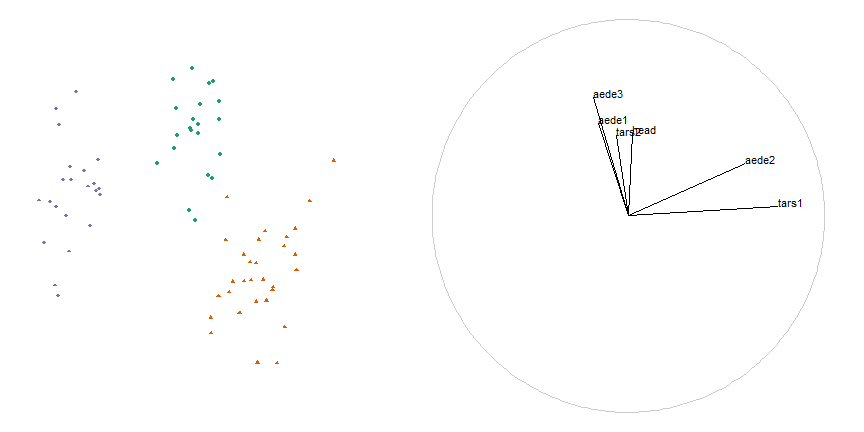
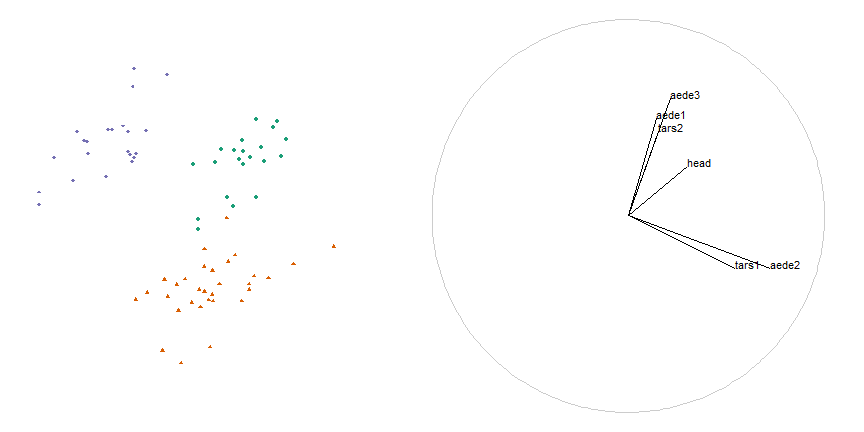
supervisors, typos

diff --git a/slides_ns.html b/slides_ns.html
@@ -3,7 +3,7 @@
   <head>
     <title>Dynamic visualization of high-dimensional data via low-dimension projections across 2D and 3D display devices</title>
     <meta charset="utf-8">
-    <meta name="author" content="  Nicholas Spyrison   Monash University, Faculty of Information Technology" />
+    <meta name="author" content="  Nicholas Spyrison   Monash University, Faculty of Information Technology    Supervisors: Prof. Kimbal Marriott,  Prof. Dianne Cook,  Prof. German Valencia" />
     <link href="slides_ns_files/remark-css-0.0.1/default.css" rel="stylesheet" />
     <script src="slides_ns_files/kePrint-0.0.1/kePrint.js"></script>
     <link rel="stylesheet" href="data_viz_theme.css" type="text/css" />
@@ -13,7 +13,7 @@
 class: center, middle, inverse, title-slide
 
 # Dynamic visualization of high-dimensional data via low-dimension projections across 2D and 3D display devices
-### <br> Nicholas Spyrison <br> Monash University, Faculty of Information Technology <br><br>
+### <br> Nicholas Spyrison <br> Monash University, Faculty of Information Technology <br><br> Supervisors: Prof. Kimbal Marriott,<br> Prof. Dianne Cook,<br> Prof. German Valencia
 ### Candidature Confirmation <br> 21 February 2019 <br><br> <em>Slides – <a href="https://github.com/nspyrison/talk_confirmation2019">github.com/nspyrison/talk_confirmation2019</a></em>
 
 ---
@@ -118,33 +118,33 @@ of the sensitivity of structure to the original variables or parameters? **
 &lt;tbody&gt;
   &lt;tr&gt;
    &lt;td style="text-align:left;"&gt; tars1 &lt;/td&gt;
-   &lt;td style="text-align:right;"&gt; 0.7658 &lt;/td&gt;
-   &lt;td style="text-align:right;"&gt; 0.0464 &lt;/td&gt;
+   &lt;td style="text-align:right;"&gt; 0.5469 &lt;/td&gt;
+   &lt;td style="text-align:right;"&gt; -0.2681 &lt;/td&gt;
   &lt;/tr&gt;
   &lt;tr&gt;
    &lt;td style="text-align:left;"&gt; tars2 &lt;/td&gt;
-   &lt;td style="text-align:right;"&gt; -0.0625 &lt;/td&gt;
-   &lt;td style="text-align:right;"&gt; 0.4088 &lt;/td&gt;
+   &lt;td style="text-align:right;"&gt; 0.1526 &lt;/td&gt;
+   &lt;td style="text-align:right;"&gt; 0.4286 &lt;/td&gt;
   &lt;/tr&gt;
   &lt;tr&gt;
    &lt;td style="text-align:left;"&gt; head &lt;/td&gt;
-   &lt;td style="text-align:right;"&gt; 0.0200 &lt;/td&gt;
-   &lt;td style="text-align:right;"&gt; 0.4200 &lt;/td&gt;
+   &lt;td style="text-align:right;"&gt; 0.3018 &lt;/td&gt;
+   &lt;td style="text-align:right;"&gt; 0.2543 &lt;/td&gt;
   &lt;/tr&gt;
   &lt;tr&gt;
    &lt;td style="text-align:left;"&gt; aede1 &lt;/td&gt;
-   &lt;td style="text-align:right;"&gt; -0.1535 &lt;/td&gt;
-   &lt;td style="text-align:right;"&gt; 0.4694 &lt;/td&gt;
+   &lt;td style="text-align:right;"&gt; 0.1417 &lt;/td&gt;
+   &lt;td style="text-align:right;"&gt; 0.4981 &lt;/td&gt;
   &lt;/tr&gt;
   &lt;tr&gt;
    &lt;td style="text-align:left;"&gt; aede2 &lt;/td&gt;
-   &lt;td style="text-align:right;"&gt; 0.5953 &lt;/td&gt;
-   &lt;td style="text-align:right;"&gt; 0.2691 &lt;/td&gt;
+   &lt;td style="text-align:right;"&gt; 0.7214 &lt;/td&gt;
+   &lt;td style="text-align:right;"&gt; -0.2697 &lt;/td&gt;
   &lt;/tr&gt;
   &lt;tr&gt;
    &lt;td style="text-align:left;"&gt; aede3 &lt;/td&gt;
-   &lt;td style="text-align:right;"&gt; -0.1772 &lt;/td&gt;
-   &lt;td style="text-align:right;"&gt; 0.6013 &lt;/td&gt;
+   &lt;td style="text-align:right;"&gt; 0.2144 &lt;/td&gt;
+   &lt;td style="text-align:right;"&gt; 0.5991 &lt;/td&gt;
   &lt;/tr&gt;
 &lt;/tbody&gt;
 &lt;/table&gt;
@@ -165,7 +165,7 @@ of the sensitivity of structure to the original variables or parameters? **
 - Lay the reference frame on a table
 - Initialize a manipulation space
 - Changing the angle between the red line and the blue line controls the x-y coefficients of the selected variable (constrained rotation on the others)
-- Lock the angle on the blue plain; radial rotation
+- Lock the angle on the blue plane; radial rotation
 ]
 
 ---
@@ -209,7 +209,7 @@ Given:
 - Starting basis from previously published figures
 
 Results:
-- When the contribution of PC6 is full, the plain of green points extends into the line of sight
+- When the contribution of PC6 is full, the plane of green points extends into the line of sight
 - When the contribution is zeroed, the line is purple points is approaching a head on view
 ]
 
